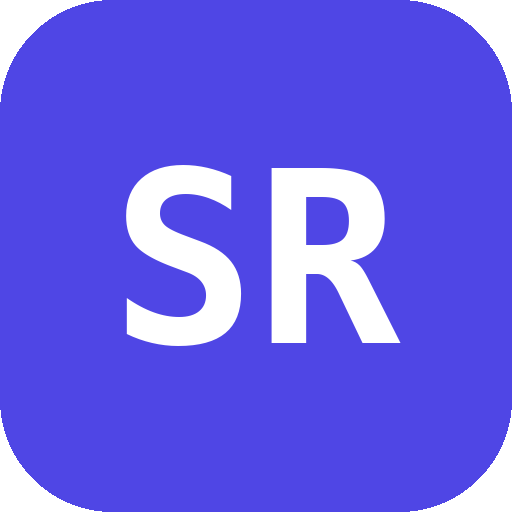
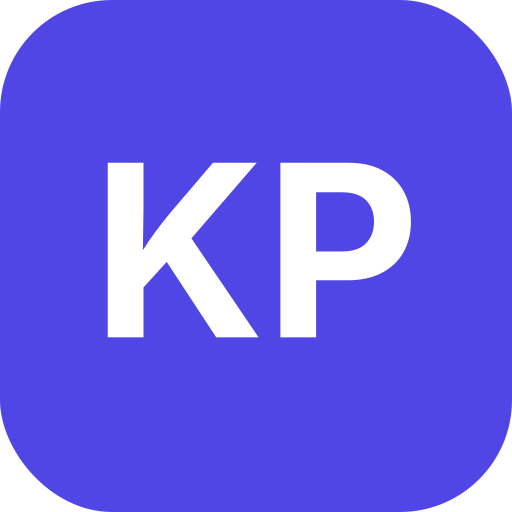
Update on-site display name to Khairul Pasar
Replace visible Sayman Rifat strings with Khairul Pasar in config, nav, titles, and meta. Switch the indigo monogram and OG card from SR to KP. Domain, GitHub username, and URLs stay the same.

diff --git a/src/lib/config.ts b/src/lib/config.ts
@@ -1,19 +1,19 @@
 // Central site configuration — edit here to update the whole site.
 
 export const site = {
-	name: 'Sayman Rifat',
-	firstName: 'Sayman',
-	lastName: 'Rifat',
-	title: 'Sayman Rifat — Developer',
+	name: 'Khairul Pasar',
+	firstName: 'Khairul',
+	lastName: 'Pasar',
+	title: 'Khairul Pasar — Developer',
 	description:
-		'Sayman Rifat is a developer based in Bangladesh building calm, well-crafted software — web, mobile, and developer tools with AI at the core.',
+		'Khairul Pasar is a developer based in Bangladesh building calm, well-crafted software — web, mobile, and developer tools with AI at the core.',
 	url: 'https://saymanrifat.com',
 	email: 'contact@saymanrifat.com',
 	location: 'Bangladesh',
 	timezone: 'Asia/Dhaka',
 	company: 'Umber Lab Limited',
 	keywords:
-		'Sayman Rifat, software developer, web developer, mobile developer, SvelteKit, Kotlin, Flutter, Swift, AI, Bangladesh developer',
+		'Khairul Pasar, software developer, web developer, mobile developer, SvelteKit, Kotlin, Flutter, Swift, AI, Bangladesh developer',
 	tagline: 'I build calm, well-sorted software — web, mobile, and tools that actually help people.',
 	oneliner:
 		'I turn loose ideas into quietly reliable software. Most of what I build leans on thoughtful UX, solid engineering, and a healthy respect for the people who will use it.',

diff --git a/src/lib/components/Nav.svelte b/src/lib/components/Nav.svelte
@@ -1,5 +1,6 @@
 <script lang="ts">
 	import { page } from '$app/state';
+	import { site } from '$lib/config';
 	import ThemeToggle from './ThemeToggle.svelte';
 
 	const links = [
@@ -19,8 +20,8 @@
 
 <header class="site-header">
 	<div class="container nav-inner">
-		<a class="logo focus-ring" href="/" aria-label="Sayman Rifat — home">
-			<span class="mono">~/sayman</span>
+		<a class="logo focus-ring" href="/" aria-label="{site.name} — home">
+			<span class="mono">~/{site.firstName.toLowerCase()}</span>
 		</a>
 
 		<nav aria-label="Primary">

diff --git a/src/routes/writing/+page.svelte b/src/routes/writing/+page.svelte
@@ -1,9 +1,9 @@
 <script lang="ts">
 	import Seo from '$lib/components/Seo.svelte';
-	import { posts } from '$lib/config';
+	import { site, posts } from '$lib/config';
 </script>
 
-<Seo title="Writing" description="Essays and notes from Sayman on calm software, AI, and building." />
+<Seo title="Writing" description={`Essays and notes from ${site.firstName} on calm software, AI, and building.`} />
 
 <div class="cv">
 	<header class="cv-page-head">

diff --git a/src/routes/skills/+page.svelte b/src/routes/skills/+page.svelte
@@ -1,9 +1,9 @@
 <script lang="ts">
 	import Seo from '$lib/components/Seo.svelte';
-	import { skillGroups } from '$lib/config';
+	import { site, skillGroups } from '$lib/config';
 </script>
 
-<Seo title="Skills" description="The languages, tools, and technologies Sayman works with." />
+<Seo title="Skills" description={`The languages, tools, and technologies ${site.firstName} works with.`} />
 
 <div class="cv">
 	<header class="cv-page-head">

diff --git a/src/routes/now/+page.svelte b/src/routes/now/+page.svelte
@@ -3,7 +3,7 @@
 	import { site, now } from '$lib/config';
 </script>
 
-<Seo title="Now" description="What Sayman is currently focused on." />
+<Seo title="Now" description={`What ${site.firstName} is currently focused on.`} />
 
 <div class="cv">
 	<header class="cv-page-head">

diff --git a/README.md b/README.md
@@ -1,4 +1,4 @@
-# Sayman's Personal Site
+# Khairul Pasar's Personal Site
 
 A calm, content-rich, SEO-optimized personal website built with **SvelteKit**. Fully static output (`adapter-static`) for maximum performance and SEO.
 
